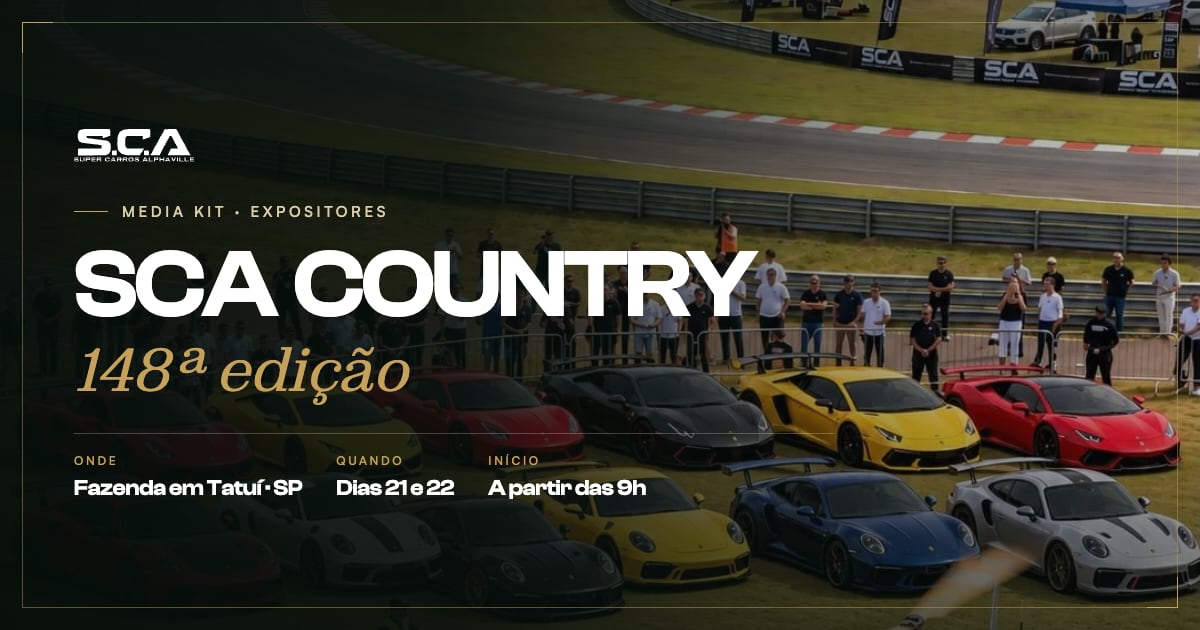
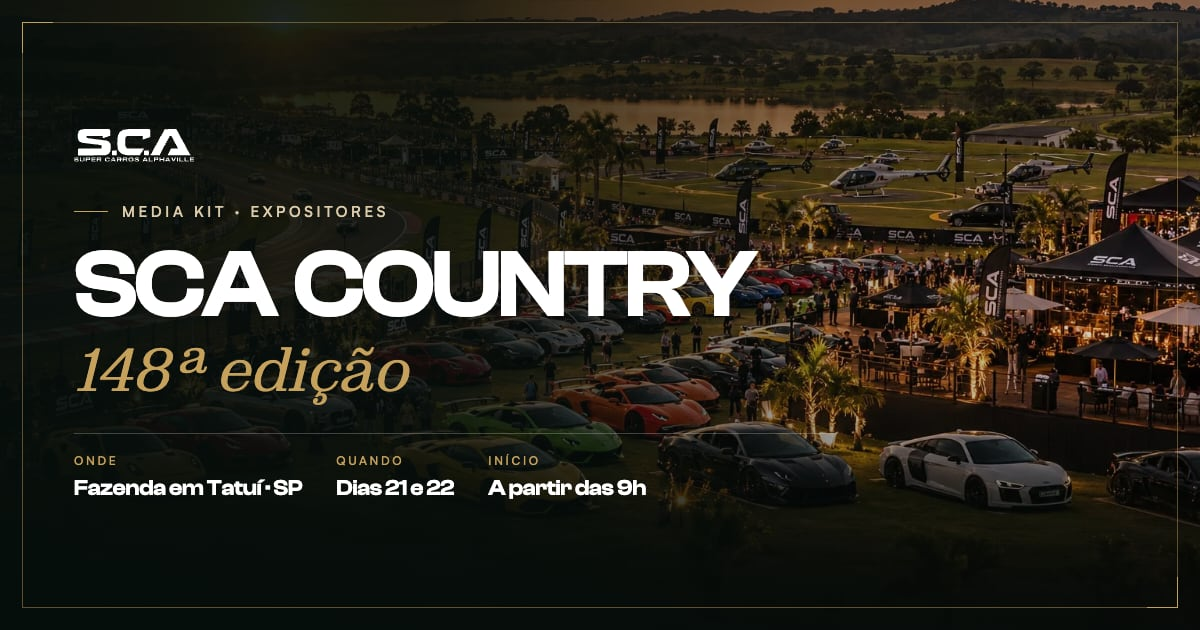
Media Kit: imagens finais em todas as páginas + nova capa
- 13 imagens dos setores (Arena VIP, Track Day, Stands, Loja SCA,
  Gastronomia, Arena Business, DJ, Aeronaves, Drift, Volta Rápida,
  Podcast, Fogueira e Estacionamento) e capa nova
- Celular: título longo ("Estacionamento") reduz para não cortar;
  enquadramento ajustado em Arena Business e Podcast
- og:image refeita com a capa nova

diff --git a/src/data/media-kit.ts b/src/data/media-kit.ts
@@ -57,7 +57,7 @@ export const capa = {
   eyebrow: 'Media Kit · Expositores',
   titleLines: ['SCA Country', event.edition],
   image: 'capa',
-  imageAlt: 'Supercarros alinhados ao lado da pista, público, tendas do SCA e um helicóptero no heliponto',
+  imageAlt: 'Vista do SCA Country ao pôr do sol: pista, supercarros alinhados na grama, tendas e helicópteros do SCA',
   ctaSecondary: { label: 'Ver a programação', href: '#programacao' },
 } as const;
 
@@ -86,6 +86,7 @@ export const vip: Pagina = {
   title: 'Arena SCA Member',
   lead: 'Uma arena exclusiva para os membros do SCA. Os maiores empresários do país estarão lá dentro, com presenças já confirmadas.',
   image: 'arena-vip',
+  imageAlt: 'Lounge VIP elevado com letreiro "VIP · Arena SCA Member" e supercarros estacionados em frente',
 };
 
 export const programacao = {
@@ -184,8 +185,8 @@ export const setores: Setor[] = [
         lead: 'Supercarros de todas as marcas acelerando na pista do SCA Country.',
         chips: ['Porsche', 'Ferrari', 'Lamborghini', 'BMW M', 'Audi R8 & RS', 'Mustang'],
         image: 'setor-01-track-day',
+        imageAlt: 'Fileiras de supercarros de várias marcas ao lado da pista, com faixas SCA nas grades e público',
         fallback: 'fleet-formation-saoroque',
-        imageAlt: 'Supercarros de várias marcas em formação na pista',
       },
       {
         id: 'pista',
@@ -213,6 +214,7 @@ export const setores: Setor[] = [
         title: 'Stands de empresas',
         lead: 'Uma feira dentro do evento, com mais de 100 empresas expondo. Seja uma empresa parceira e monte o seu stand.',
         image: 'setor-02-stands',
+        imageAlt: 'Fileira de tendas pretas de expositores com supercarros estacionados em frente',
         cta: { label: 'Escolher meu stand', href: '#planos' },
       },
       'planos',
@@ -222,6 +224,7 @@ export const setores: Setor[] = [
         title: 'Loja oficial SCA',
         lead: 'O stand da marca SCA, com malas, bonés, camisas, moletons e toda a linha oficial do clube.',
         image: 'setor-02-stand-sca',
+        imageAlt: 'Stand da loja oficial SCA com bonés, camisetas, moletons e malas, e uma Lamborghini preta ao lado',
       },
     ],
   },
@@ -237,6 +240,7 @@ export const setores: Setor[] = [
         accent: 'Costela fogo de chão.',
         lead: 'Food trucks, sorvetes e o melhor da comida de fazenda, com os supercarros em volta.',
         image: 'setor-03-gastronomia',
+        imageAlt: 'Costela fogo de chão, food trucks e mesas rústicas ao pôr do sol',
       },
     ],
   },
@@ -251,6 +255,8 @@ export const setores: Setor[] = [
         title: 'Arena Business',
         lead: 'O espaço para empresários se conectarem e fazerem negócios. No telão da arena, a empresa de cada empresário aparece para todos os presentes.',
         image: 'setor-04-arena-business',
+        imageAlt: 'Arena Business com telão, sofás de couro e empresários conversando',
+        position: '15% 50%',  // no celular, mantém o telão "ARENA BUSINESS" inteiro no quadro
       },
     ],
   },
@@ -266,6 +272,7 @@ export const setores: Setor[] = [
         title: 'DJ Jesus Luz',
         lead: 'Nos dois dias de SCA Country, ao lado de José Silva, fundador do SCA.',
         image: 'setor-05-dj',
+        imageAlt: 'Palco de DJ com o logo SCA, público dançando e supercarros nas laterais',
       },
     ],
   },
@@ -280,6 +287,7 @@ export const setores: Setor[] = [
         title: 'Aeronaves',
         lead: 'Helicópteros e aviões de pequeno porte reunidos em um setor próprio: o SCA Country também chega pelo céu.',
         image: 'setor-06-aeronaves',
+        imageAlt: 'Helicópteros e aviões de pequeno porte expostos na grama do evento',
       },
     ],
   },
@@ -294,8 +302,8 @@ export const setores: Setor[] = [
         title: 'Show de Drift',
         lead: 'Apresentação de drift com os maiores pilotos do Brasil.',
         image: 'setor-07-drift',
+        imageAlt: 'Dois carros fazendo drift lado a lado na pista, com fumaça dos pneus',
         fallback: 'track-day-cornering',
-        imageAlt: 'Supercarros contornando uma curva da pista',
       },
     ],
   },
@@ -311,8 +319,8 @@ export const setores: Setor[] = [
         lead: 'Uma volta na pista a bordo dos carros mais exclusivos do Brasil.',
         chips: ['Lamborghini Aventador', 'Toyota Supra', 'Nissan Skyline GT-R', 'Mitsubishi Evo', 'Nissan 370Z & 350Z Nismo', 'Fúria', 'Chevrolet S10'],
         image: 'setor-08-volta-rapida',
+        imageAlt: 'Carros exclusivos alinhados na reta da pista ao pôr do sol',
         fallback: 'lambo-forest-aventador',
-        imageAlt: 'Lamborghini Aventador com os faróis acesos',
       },
     ],
   },
@@ -327,9 +335,9 @@ export const setores: Setor[] = [
         title: 'SCA Podcast ao vivo',
         lead: 'Um estúdio fechado dentro do evento para entrevistar, ao vivo, os maiores empresários e empresas.',
         image: 'setor-09-podcast',
+        imageAlt: 'Estúdio do SCA Podcast montado no evento, com poltronas, microfones e câmeras',
+        position: '36% 50%',  // no celular, mantém o letreiro "SCA PODCAST" inteiro
         fallback: 'founder-jose-silva',
-        imageAlt: 'José Silva, fundador do SCA e apresentador do podcast',
-        position: 'center 30%',
       },
     ],
   },
@@ -344,6 +352,7 @@ export const setores: Setor[] = [
         title: 'Fogueira Country',
         lead: 'Quando a noite chega, a fazenda acende: fogueira gigante, DJ Jesus Luz e o cantor sertanejo oficial do SCA.',
         image: 'setor-10-fogueira',
+        imageAlt: 'Fogueira gigante à noite, com público e palco de show ao fundo',
       },
     ],
   },
@@ -359,7 +368,7 @@ export const setores: Setor[] = [
         title: 'Estacionamento',
         lead: 'Estacionamento para 5 mil carros, pensado para receber os visitantes.',
         image: 'setor-11-estacionamento',
-        imageAlt: 'Vista aérea de um grande estacionamento gramado lotado de carros',
+        imageAlt: 'Vista aérea do estacionamento do evento, com milhares de carros em fileiras',
       },
     ],
   },
